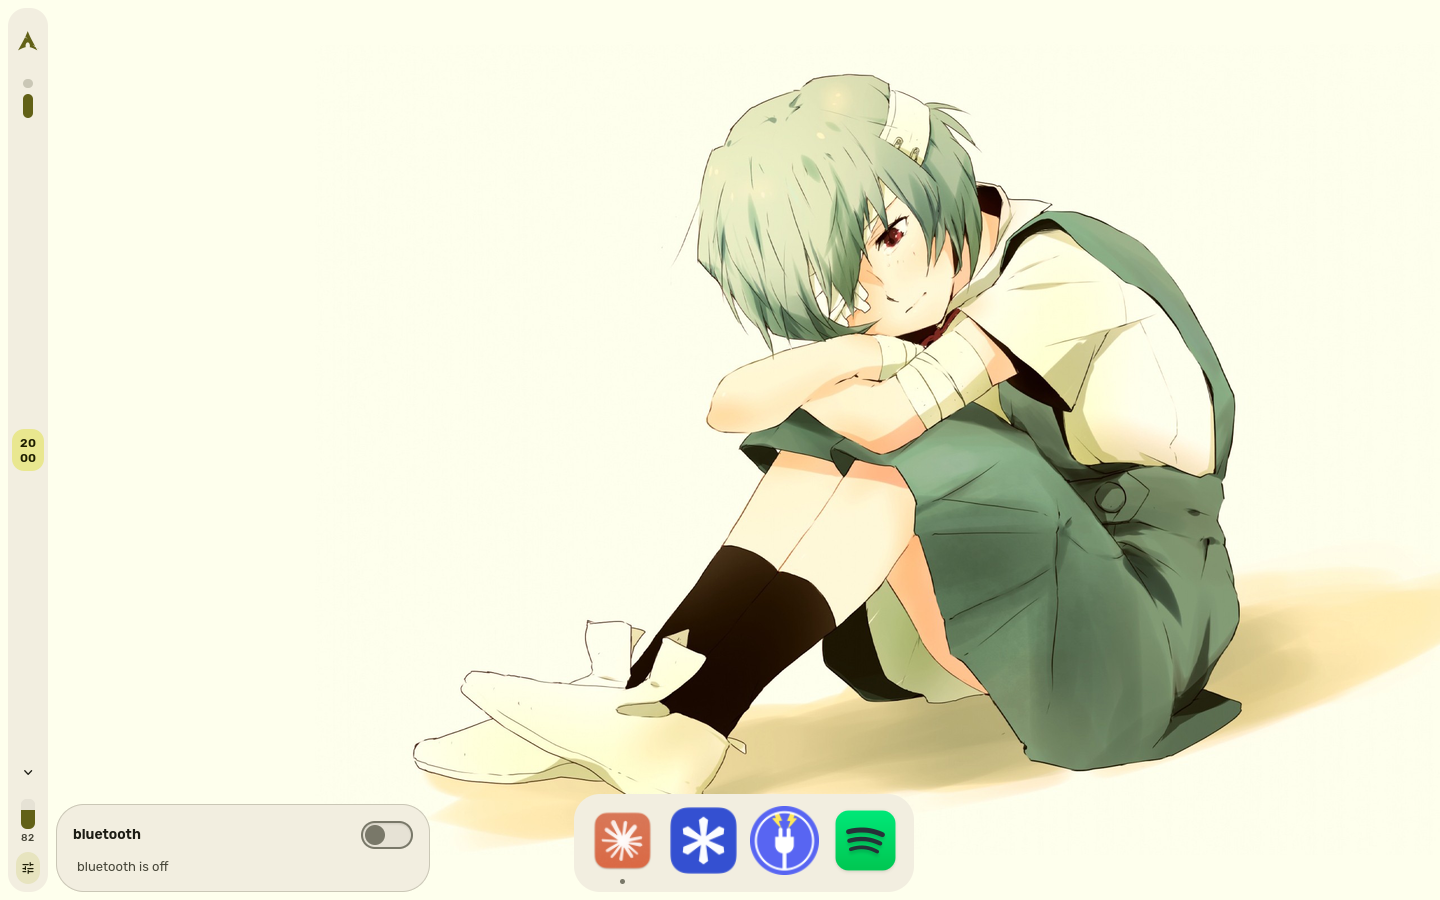
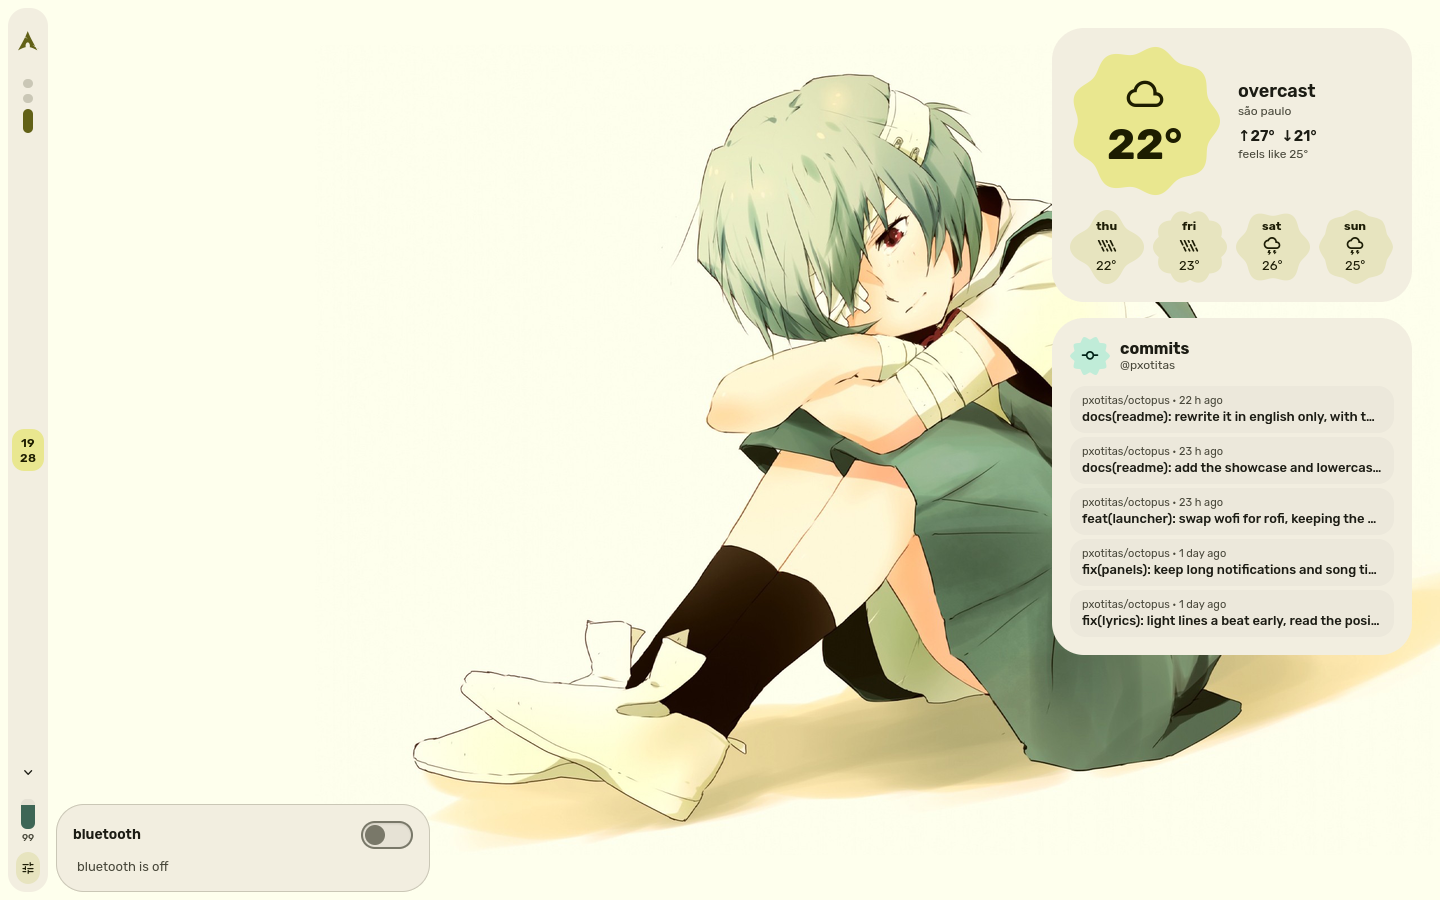
docs(readme): new screenshots, with drawers for the weather tab and the desktop widgets

diff --git a/README.md b/README.md
@@ -110,10 +110,10 @@ the full video, with sound, is on the [site](https://pxotitas.github.io/octopus/
 all of them are in [`screenshots/`](screenshots). click a group to open it.
 
 <details>
-<summary><b>desktop</b>: the bar, the dock, notifications and the osd</summary>
+<summary><b>desktop</b>: the bar, the desktop widgets, notifications and the osd</summary>
 <br>
 
-the vertical bar on the left and the dock at the bottom.
+the vertical bar on the left, and the desktop widgets on the right: the weather and the latest commits.
 
 <img src="screenshots/desktop.webp" alt="desktop with the bar and the dock" width="100%">
 
@@ -136,16 +136,40 @@ the osd, for volume and brightness.
 </details>
 
 <details>
-<summary><b>dash</b>: clock, calendar, weather, player and wallpapers</summary>
+<summary><b>dash</b>: rail, clocks, calendar, player, notifications, weather and wallpapers</summary>
 <br>
 
-the overview, opened from the clock on the bar.
+the overview, opened from the clock on the bar: a navigation rail, an analog clock on a cookie, and the notifications over a small weather card.
 
 <img src="screenshots/dash.webp" alt="dash overview" width="100%">
 
 the wallpapers tab; picking one also makes the palette.
 
 <img src="screenshots/wallpapers.webp" alt="wallpaper picker in the dash" width="100%">
+
+</details>
+
+<details>
+<summary><b>weather</b>: m3 shapes, and questions after a <code>&gt;</code></summary>
+<br>
+
+right now: metrics in m3 shapes, the sun's arc and the moon, the next 24 hours and the days.
+
+<img src="screenshots/weather.webp" alt="the weather tab" width="100%">
+
+<code>&gt; tomorrow</code>: one day, and how it compares to today.
+
+<img src="screenshots/weather-tomorrow.webp" alt="tomorrow's weather" width="100%">
+
+<code>&gt; yesterday</code>: a week back is there too.
+
+<img src="screenshots/weather-yesterday.webp" alt="yesterday's weather" width="100%">
+
+<code>&gt; week</code> and <code>&gt; weekend</code>: days in shapes, with the warmest, the coolest and the rainiest.
+
+<img src="screenshots/weather-week.webp" alt="the week's weather" width="100%">
+
+<img src="screenshots/weather-weekend.webp" alt="the weekend's weather" width="100%">
 
 </details>
 
